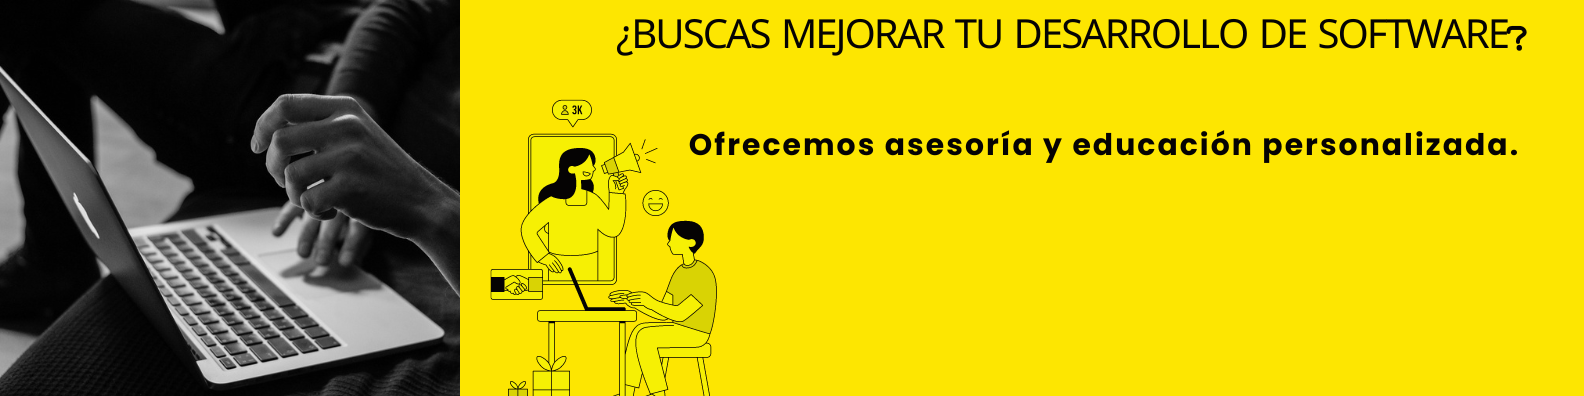
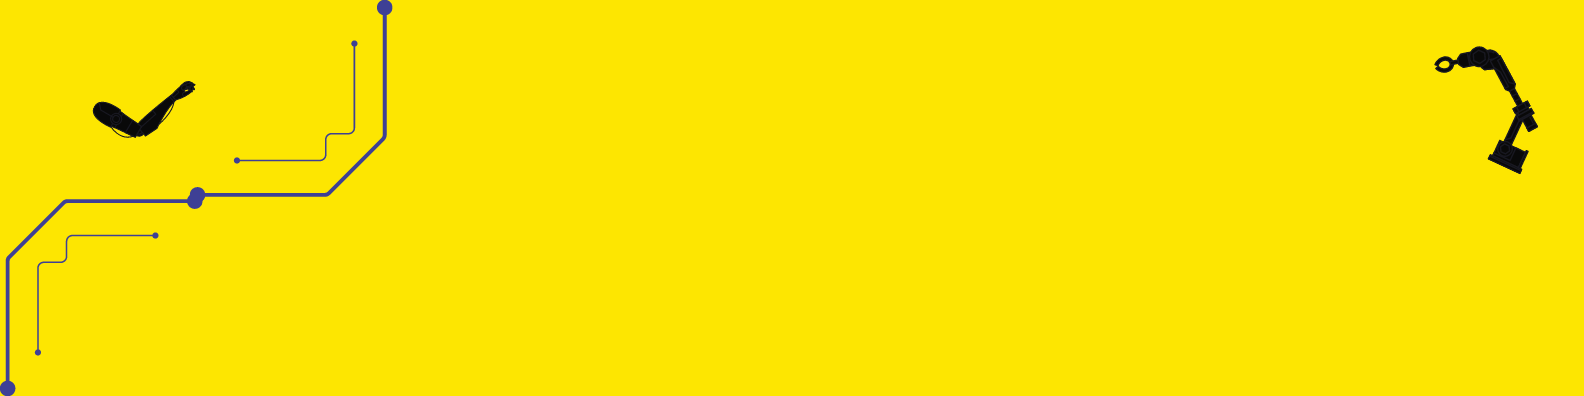
ADD:IMAGES FONTS ADDED

diff --git a/Client/src/Sass/Pages/1.0-Page_MainPage/Containers/6.0-SASS-Container_Footer.scss b/Client/src/Sass/Pages/1.0-Page_MainPage/Containers/6.0-SASS-Container_Footer.scss
@@ -40,18 +40,18 @@
       height: 300px;
 
       display: flex;
-      flex-direction: column;
+      
       justify-content: space-around;
       align-items: top;
 
 
-      border: 1px solid black;
+        
       
       .social-icons{
 
           margin: 0 auto;
 
-          width: 100%;
+          width: 50%;
           height: 50px;
 
           display: flex;
@@ -61,11 +61,11 @@
         img{
 
           width: 30px; 
-          height: 50px;
+          height: 50px; 
 
           margin: 10px;
 
-          border: 1px solid black;
+         
 
         }
       }
@@ -184,7 +184,7 @@
 
     height: 50%;
 
-    border: 1px solid black;
+    
 
     .box_one{
 
@@ -195,25 +195,26 @@
 
       width: 50%;
 
-      border: 1px solid black;
+      display: flex;
+
+     
 
       .social-icons{
 
-        width: 100%;
+        width: 50%;
         height:100px;
  
         display: flex;
         align-items: center;
-        justify-content: right;
+        justify-content: left;
 
-        border: 1px solid black;
-
+ 
         img{
           margin: 10px;
           width: 60px;
           height: 60px;
 
-          border: 1px solid black;
+        
           
         }
       }

diff --git a/Client/src/Pages/1.0-Page_MainPage/Containers/4.0-Container_Blog.jsx b/Client/src/Pages/1.0-Page_MainPage/Containers/4.0-Container_Blog.jsx
@@ -55,10 +55,10 @@ export const Container_Blog = () => {
                 </div>
 
 
-            </section>
+            </section> 
 
             
-
+{/* 
             <section className = "wrapper_blog">
 
                 <figure className =" box_one figure_about_logo" >
@@ -77,9 +77,9 @@ export const Container_Blog = () => {
                     <div> julio / 2024 </div>
                 </div>
 
-            </section>
+            </section> */}
 
-            <section className = "wrapper_blog">
+            {/* <section className = "wrapper_blog">
                 
                 <figure className =" box_one figure_about_logo" >
                     <img src="" alt="img_about_logo" /> 
@@ -97,7 +97,7 @@ export const Container_Blog = () => {
                     <div> julio / 2024 </div>
                 </div>
 
-            </section>
+            </section> */}
             
         </div>
     )

diff --git a/Client/src/Pages/1.0-Page_MainPage/Containers/6.0-Container_Footer.jsx b/Client/src/Pages/1.0-Page_MainPage/Containers/6.0-Container_Footer.jsx
@@ -24,7 +24,7 @@ export const Container_Footer = () => {
                     <p className='lema'> tu guia sobre programacion y tecnologia</p> 
                 </section>
 
-                <section className = "box_two"> 
+                <section className = "box_two">  
 
                     <h3>Para consultas adicionales, encuéntranos también en:</h3>
 
@@ -35,6 +35,7 @@ export const Container_Footer = () => {
                         <img src= { linkedin_icon } alt="" />
                         
                     </figure>
+                    
                 </section>
                 
             </div> 

diff --git a/Client/src/Sass/Pages/1.0-Page_MainPage/Containers/2.0-SASS-Container_Presentation.scss b/Client/src/Sass/Pages/1.0-Page_MainPage/Containers/2.0-SASS-Container_Presentation.scss
@@ -72,7 +72,11 @@
     height: 200px;
     margin-top: 100px;
 
-   
+    //background: url('../../../../assets/blogs_fonts/6.png');
+
+    //content: url('../../../../assets/blogs_fonts/1.png');  
+
+   margin-bottom: 30px;
     
 
     .wrapper_presentation{
@@ -96,6 +100,7 @@
         width: 100%;
         height: 400px; 
       }
+
     } 
 
   

diff --git a/Client/src/Sass/Pages/1.0-Page_MainPage/Containers/4.0-SASS-Container_Blog.scss b/Client/src/Sass/Pages/1.0-Page_MainPage/Containers/4.0-SASS-Container_Blog.scss
@@ -165,7 +165,7 @@
     }
   }
 
-    border: 1px solid green; 
+   
    
 }
 
@@ -184,6 +184,9 @@
         display: grid; 
         grid-template-columns: repeat(3, minmax(0, 1fr));
         gap: 20px;
+
+        //background: url('../../../../assets/blogs_fonts/3.png');
+        //background: no-repeat;
 
         .wrapper_blog{
 

diff --git a/Client/src/Pages/Components/Hooks/CustomsHooks/3.0-ImagesCollection.jsx b/Client/src/Pages/Components/Hooks/CustomsHooks/3.0-ImagesCollection.jsx
@@ -14,6 +14,8 @@ import terminal_font from '../../../../assets/terminales.jpg'; // termianl font
 import vite_font_blog from '../../../../assets/blogs_fonts/about_vite.png';
 import advertisemnt_font from '../../../../assets/blogs_fonts/3.png';
 
+
+
  
 
 export const useImageCollection = (  ) => {

diff --git a/Client/src/Sass/Mixins/Variables.scss b/Client/src/Sass/Mixins/Variables.scss
@@ -8,11 +8,11 @@ $background_main_color:rgb(253, 230, 1);
 //MEDIA QUERIES
 
 $media_phone: 480;
-$media_tablet: 820;
+$media_tablet: 720;
 $media_desktop: 1024;
 
 $ancho-telefono: 480px;
-$ancho-tablet: 830px; 
+$ancho-tablet: 720px; 
 $ancho-computadora: 1024px;
 
 //FONTS, SIZES, LETTERS

diff --git a/Client/src/Sass/Pages/1.0-Page_MainPage/Containers/3.0-SASS-Container_Menu.scss b/Client/src/Sass/Pages/1.0-Page_MainPage/Containers/3.0-SASS-Container_Menu.scss
@@ -74,8 +74,11 @@
 
   margin-top: 80px; 
   
+  height: 300px;
 
-  height: 300px; 
+  //background: url('../../../../assets/blogs_fonts/2.png');
+  
+  //content: url('../../../../assets/blogs_fonts/2.png'); 
 
 
   .box-one_menu_one, .box-two_menu_two, .box-three_menu_three{

diff --git a/Client/src/Pages/1.0-Page_MainPage/Containers/2.0-Container_Presentation.jsx b/Client/src/Pages/1.0-Page_MainPage/Containers/2.0-Container_Presentation.jsx
@@ -21,7 +21,7 @@ export const Container_Presentation = () => {
             
             <figure className = "wrapper_presentation">
 
-                <img src= { portada } alt="" />
+                <img src= " " alt="" /> 
 
                
 
